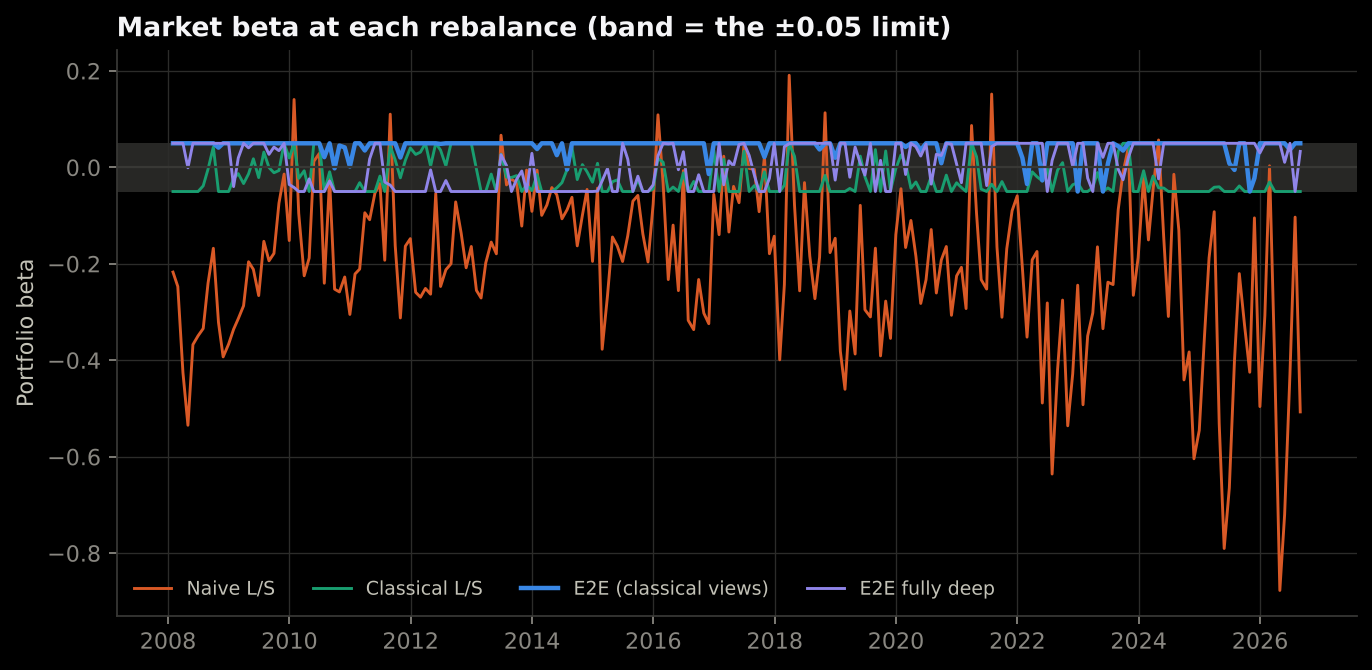
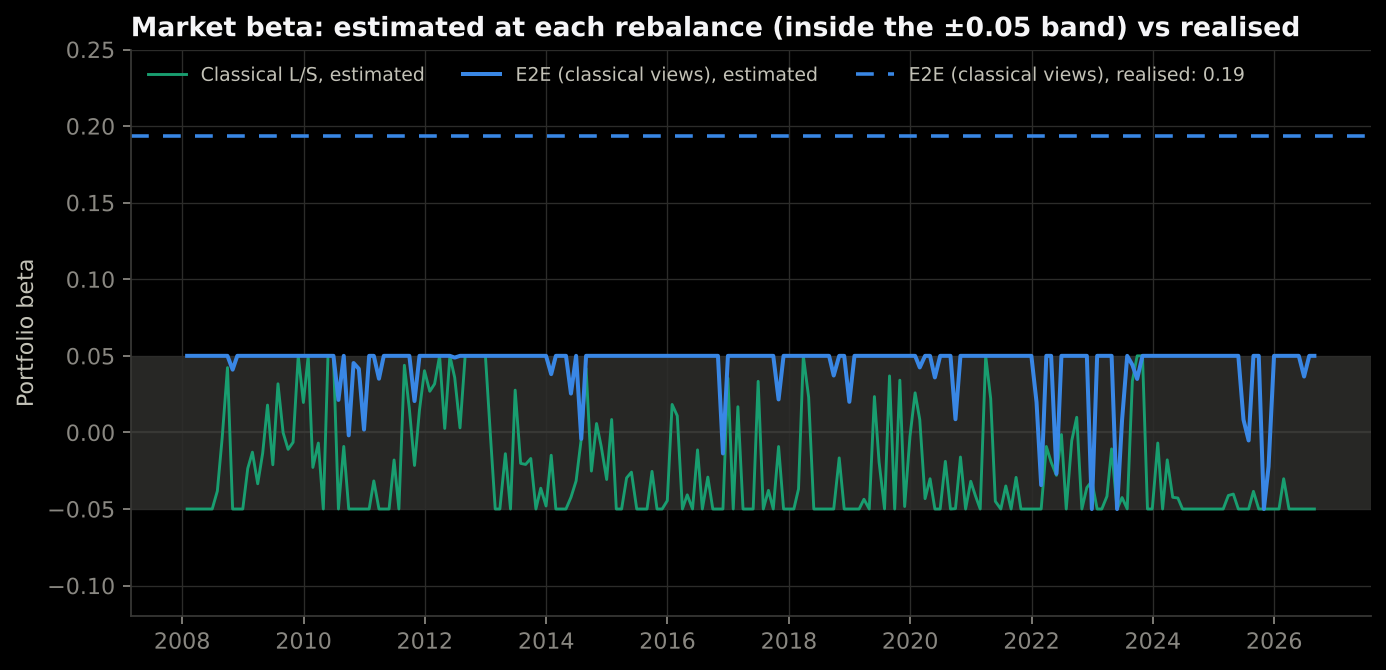
Correct seed rounding and AlphaFormer wording; sharpen the beta-leak chart
- Seed 44 Sharpe is 0.4947, shown as 0.49 (was misrounded to 0.50)
- AlphaFormer's IC is level with momentum alone (0.0165 vs 0.0161); its quintile spread is about double
- Beta chart shows estimated beta inside the band against realised beta

Claude-Session: https://claude.ai/code/session_01VVdSRY8ywyhJGWwwRtEUbC

diff --git a/src/dpc/site_export.py b/src/dpc/site_export.py
@@ -170,19 +170,23 @@ def render_site_figures(cfg: Config) -> list[Path]:
     save(fig, p)
     written.append(p)
 
-    # 3. Market beta at each rebalance: the leak
+    # 3. Market beta: estimated at each rebalance (held inside the band) vs realised (the leak)
+    perf = pd.read_csv(cfg.paths.reports / "stage6_performance.csv", index_col=0)
     fig, ax = plt.subplots(figsize=(10, 4.6))
-    for s in ("ls_naive", "ls_classical", "e2e", "e2e_deep"):
-        f = cfg.paths.results / f"{s}__risk_decomp.parquet"
-        if f.exists():
-            ex = pd.read_parquet(f)["exp_style:Mkt-RF"]
-            ax.plot(ex.index, ex.values, color=dark(COLORS[s]), lw=2 if s == "e2e" else 1.3, label=SHORT[s])
     lim = cfg.optimizer.factor_limit
     ax.axhspan(-lim, lim, color=DARK["grid"], alpha=0.9, lw=0)
     ax.axhline(0, color=DARK["baseline"], lw=1)
-    ax.set_title(f"Market beta at each rebalance (band = the ±{lim:g} limit)")
+    for s in ("ls_classical", "e2e"):
+        f = cfg.paths.results / f"{s}__risk_decomp.parquet"
+        if f.exists():
+            ex = pd.read_parquet(f)["exp_style:Mkt-RF"]
+            ax.plot(ex.index, ex.values, color=dark(COLORS[s]), lw=1.8 if s == "e2e" else 1.3, label=f"{SHORT[s]}, estimated")
+    realised = float(perf.loc[LABELS["e2e"], "beta_mkt"])
+    ax.axhline(realised, color=dark(COLORS["e2e"]), lw=1.6, ls=(0, (5, 4)), label=f"{SHORT['e2e']}, realised: {realised:.2f}")
+    ax.set_ylim(-0.12, max(0.25, realised + 0.05))
+    ax.set_title(f"Market beta: estimated at each rebalance (inside the ±{lim:g} band) vs realised")
     ax.set_ylabel("Portfolio beta")
-    ax.legend(loc="lower left", fontsize=8.5, ncols=4)
+    ax.legend(loc="upper left", fontsize=8.5, ncols=3)
     p = out_dir / "dpc-beta.png"
     save(fig, p)
     written.append(p)

diff --git a/reports/interview_prep.md b/reports/interview_prep.md
@@ -14,7 +14,7 @@ For each stage: what was built, the finance in plain English, and three intervie
 * **Gradient check.** I verified cvxpylayers' gradients against a problem with a known answer (dollar-neutral projection, whose Jacobian is I − 11ᵀ/n) before trusting it in Stage 5.
 
 **Q1. Why fix seeds? Doesn't that hide instability?**
-Seeds give auditability: the same code and data give the same number. To *measure* instability, I reran the end-to-end model with three seeds: Sharpe 0.58 / 0.46 / 0.50. The honest number to quote is the mean, 0.51 ± 0.06. The headline seed happened to be the best of the three.
+Seeds give auditability: the same code and data give the same number. To *measure* instability, I reran the end-to-end model with three seeds: Sharpe 0.58 / 0.46 / 0.49. The honest number to quote is the mean, 0.51 ± 0.06. The headline seed happened to be the best of the three.
 
 **Q2. Why put every parameter in a config file?**
 * It can be audited: all assumptions are in one place.
@@ -143,9 +143,9 @@ Likelihood mostly rewards getting the *level* of each stock's variance right thr
   * The static inputs are volatilities, factor betas, the three classical signals and the sector.
 * **How it's trained.** On the negative information coefficient (IC), as a 3-seed ensemble with 28,033 parameters each. It uses the same yearly walk-forward refits and label-date assertions as the risk model.
 * **Out-of-sample result.**
-  * IC 0.0165 (t 1.25), against −0.004 for the classical composite.
-  * Top-minus-bottom quintile +0.47% a month (t 1.63).
-  * The best signal, but not significant.
+  * IC 0.0165 (t 1.25), against −0.004 for the classical composite, but only level with momentum alone (0.0161).
+  * Top-minus-bottom quintile +0.47% a month (t 1.63), about double momentum's 0.24%.
+  * Not significant.
 
 **Q1. Why train a return model on IC instead of mean squared error?**
 A market-neutral book only needs the *ranking* of stocks next month, not the level of the market. Correlation between the forecast and realised cross-sectional returns is scale-free (it ignores how big the numbers are) and differentiable, so it trains directly on what the portfolio uses. MSE would spend capacity predicting the market's average move, which the dollar-neutral constraint throws away. A natural target is the cross-sectionally standardised next-month return, and the loss is −mean(IC) over the months in a batch.

diff --git a/reports/research_note.md b/reports/research_note.md
@@ -84,7 +84,7 @@ A long-short book should earn returns from its *intended* stock views, not from 
 
 **Each hypothesis, in turn:**
 * **H1, rejected for hedging.** The deep covariance model wins on likelihood (−2.941 vs −2.899 for Ledoit-Wolf) but builds a *more* volatile minimum-variance portfolio (14.0% vs 13.3%), at every model size tried.
-* **H2, weakly supported.** AlphaFormer's out-of-sample IC is 0.0165 (t = 1.25), against −0.004 for the composite. Its top-minus-bottom quintile spread is +0.47% a month (t = 1.63).
+* **H2, weakly supported.** AlphaFormer's out-of-sample IC is 0.0165 (t = 1.25), against −0.004 for the composite, but only level with momentum alone (0.0161). Its top-minus-bottom quintile spread is +0.47% a month (t = 1.63), about double momentum's 0.24%.
 * **H3, supported but not significant.** End-to-end training lifted Sharpe to 0.58 (t = 1.70 against classical). Training AlphaFormer end to end as well overfit: about 250 monthly decisions per refit cannot support the extra parameters.
 
 **Stress years:**
@@ -97,7 +97,7 @@ A long-short book should earn returns from its *intended* stock views, not from 
 The 2022 loss is consistent with the learned tilt toward high-volatility, low-profitability stocks (the end-to-end model's excess over classical loads −0.41 on RMW) during the rate shock.
 
 **Robustness:**
-* End-to-end Sharpe across three seeds: 0.58 / 0.46 / 0.50, so the headline seed is the best of the three.
+* End-to-end Sharpe across three seeds: 0.58 / 0.46 / 0.49, so the headline seed is the best of the three.
 * Across position caps of 3–10% and sector limits of 2.5–10%: 0.54–0.67.
 * At 20 and 40 bps costs: 0.45 and 0.19.
 

diff --git a/README.md b/README.md
@@ -51,13 +51,13 @@ Out-of-sample, January 2008 to September 2026 (225 months), monthly rebalancing,
 
 | Component | Test | Result |
 |---|---|---|
-| AlphaFormer (views) | Out-of-sample rank IC vs the classical composite | **0.0165** (t 1.25) vs −0.004; top-minus-bottom quintile +0.47% a month (t 1.63). Best signal, not significant. |
+| AlphaFormer (views) | Out-of-sample rank IC vs the classical composite | **0.0165** (t 1.25) vs −0.004 for the composite and 0.0161 for momentum alone. Top-minus-bottom quintile +0.47% a month (t 1.63), about double momentum's 0.24%. Not significant. |
 | Deep risk model | Gaussian NLL and minimum-variance realised vol vs Ledoit-Wolf | Better likelihood (−2.941 vs −2.899), worse hedge (14.0% vs 13.3%), at every model size. |
 | End-to-end training | Paired monthly return vs classical, Newey-West | +0.43% a month, **t 1.70**. Hedging its own trailing beta point-in-time: Sharpe 0.64 → 0.40. |
 | Fully deep | Paired vs the end-to-end model | −0.30% a month, t −1.90: overfit (about 250 monthly decisions per refit). |
 
 **Robustness:**
-* End-to-end Sharpe across seeds 42/43/44: 0.58 / 0.46 / 0.50.
+* End-to-end Sharpe across seeds 42/43/44: 0.58 / 0.46 / 0.49.
 * Across position caps of 3–10% and sector limits of 2.5–10%: 0.54 to 0.67.
 * At 40 bps costs: 0.19.
 
